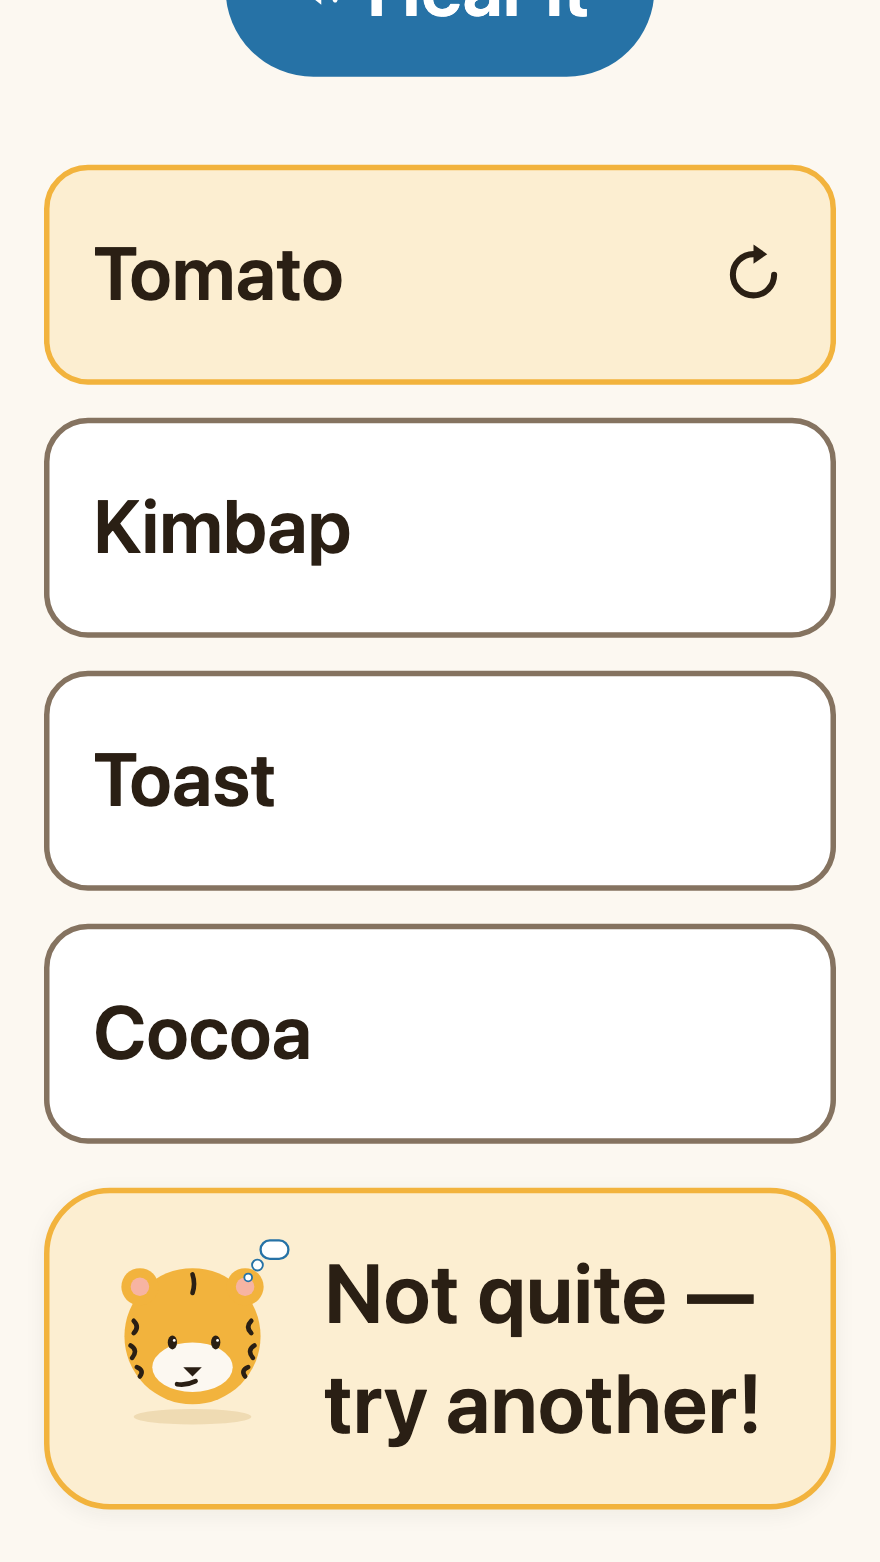
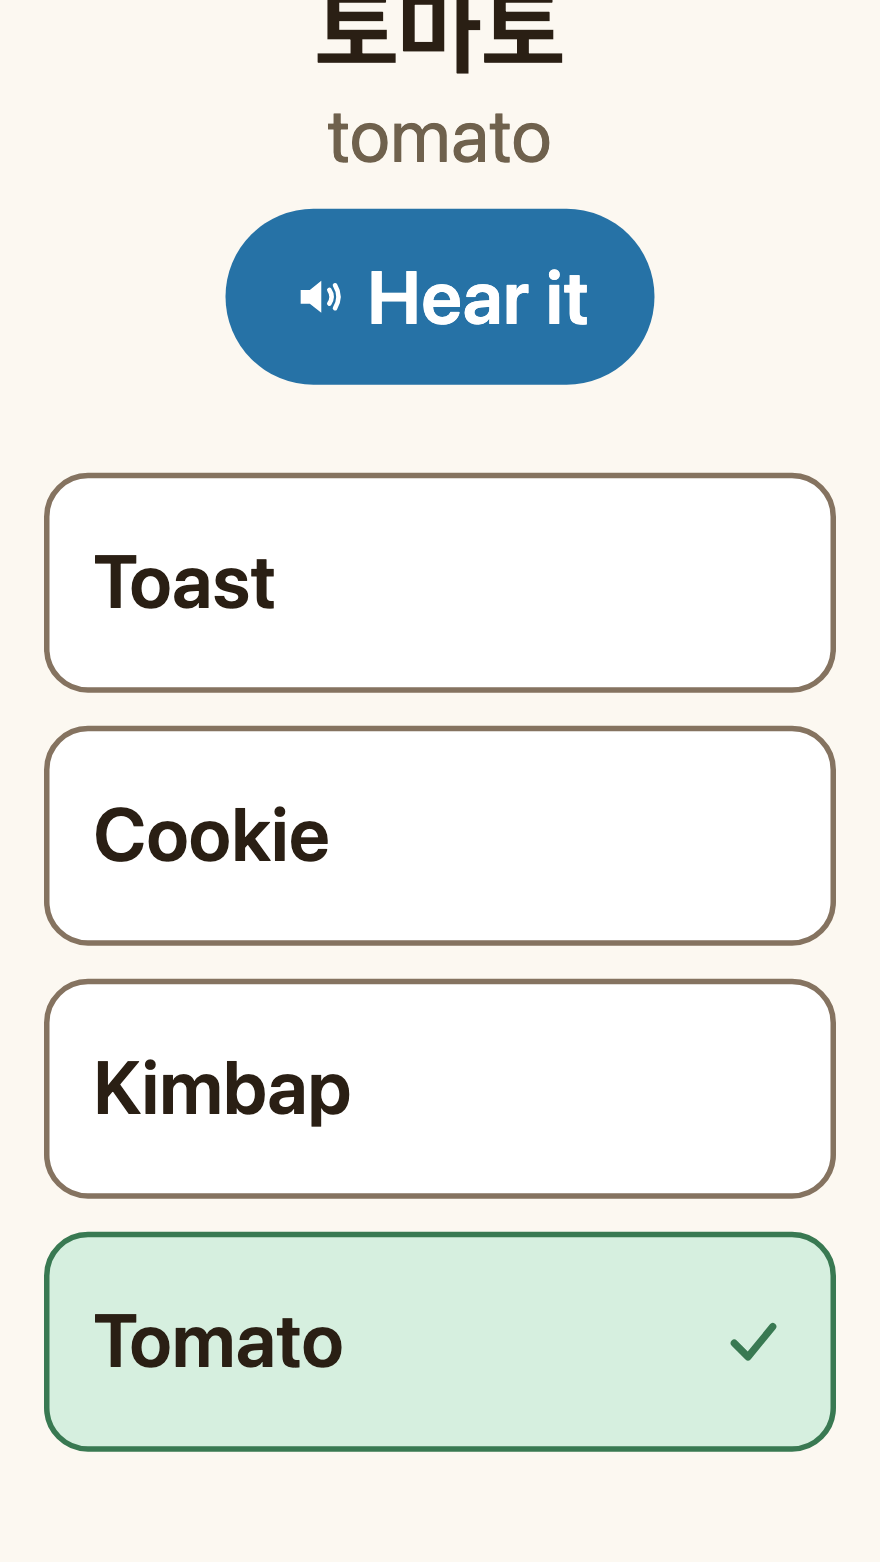
fix(mobile): Culture Quiz and Tap & Respond: Next once, no reply after Next, no advance after leaving; ordered focus test; right shots re-captured (F-A11Y-001 AF-2)
Next is guarded per round (the last round ends the step once); a reply is not started once the turn has moved on; Culture Quiz's reader-off advance has the mounted guard. Tests record focus and announce in one ordered log (iOS reader on: focus, then the line) and fail when each guard is removed. The two Culture Quiz right screenshots now show the green row with the check and no miss bubble. Start bundle re-measured 4,625,094 B raw / 1,273,518 B gzip (line unchanged at 4,628,900 B).

diff --git a/apps/mobile/src/screens/minigames/__tests__/answer-feedback-quiz-tap.test.tsx b/apps/mobile/src/screens/minigames/__tests__/answer-feedback-quiz-tap.test.tsx
@@ -19,16 +19,21 @@ import { TapRespondGame } from '../TapRespondGame';
  */
 (globalThis as { __DEV__?: boolean }).__DEV__ = false;
 
-const sr = vi.hoisted(() => ({ enabled: false, queued: [] as string[], focused: [] as unknown[] }));
+/** `log` is one ordered record of the focus moves and the queued-and-awaited iOS lines. */
+const sr = vi.hoisted(() => ({ enabled: false, queued: [] as string[], focused: [] as unknown[], log: [] as string[] }));
 vi.mock('../../../platform/screen-reader', () => ({
   isScreenReaderEnabled: () => Promise.resolve(sr.enabled),
   subscribeScreenReader: () => () => undefined,
   announceQueued: (text: string) => {
     if ((globalThis as { __os?: string }).__os === 'ios') sr.queued.push(text);
   },
-  announceAndWait: () => Promise.resolve(),
+  announceAndWait: (text: string) => {
+    sr.log.push(`announce: ${text}`);
+    return Promise.resolve();
+  },
   focusForScreenReader: (node: unknown) => {
     sr.focused.push(node);
+    sr.log.push(`focus: ${(node as { testID?: string } | null)?.testID}`);
   },
 }));
 
@@ -120,6 +125,7 @@ beforeEach(() => {
   sr.enabled = false;
   sr.queued.length = 0;
   sr.focused.length = 0;
+  sr.log.length = 0;
   audio.said = [];
   useAudioStore.setState({ muted: false });
   endVoiceCheckHold();
@@ -241,6 +247,40 @@ describe('Culture Quiz answers (test 11)', () => {
     await press(pressable(r, 'culture-quiz-next'));
     expect(finish).toHaveBeenCalledTimes(1);
   });
+
+  it('iOS, reader on: focus moves to Next first, then the line is queued (never the other way round)', async () => {
+    on('ios');
+    sr.enabled = true;
+    const r = await open(<CultureQuizGame scope={QUIZ} onFinish={() => undefined} />);
+    const pair = asked(r);
+    await press(pressable(r, optionId(pair.en)));
+    expect(sr.log).toEqual(['focus: culture-quiz-next', `announce: ${line({ kind: 'right', item: answerItem(m.a11y, pair.romanization, pair.en) })}`]);
+    await tick(60_000);
+    expect(asked(r)).toBe(pair);
+  });
+
+  it('a second Next on the last round ends the step once', async () => {
+    readerOnWeb();
+    const finish = vi.fn();
+    const r = await open(<CultureQuizGame scope={{ ...QUIZ, rounds: 1 } as MinigameScope} onFinish={finish} />);
+    await press(pressable(r, optionId(asked(r).en)));
+    await tick(60_000);
+    // The second tap is a late one on the node as it was drawn (Next is gone by then).
+    const shown = pressable(r, 'culture-quiz-next');
+    const next = { props: shown.props, type: shown.type } as ReactTestInstance;
+    await press(next);
+    await press(next);
+    expect(finish).toHaveBeenCalledTimes(1);
+  });
+
+  it('reader off: leaving the game during the floor ends nothing afterwards', async () => {
+    const finish = vi.fn();
+    const r = await open(<CultureQuizGame scope={{ ...QUIZ, rounds: 1 } as MinigameScope} onFinish={finish} />);
+    await press(pressable(r, optionId(asked(r).en)));
+    await unmount(r);
+    await tick(RESULT_MARK_MIN_MS * 3);
+    expect(finish).not.toHaveBeenCalled();
+  });
 });
 
 describe('Tap & Respond replies (test 12)', () => {
@@ -327,7 +367,7 @@ describe('Tap & Respond replies (test 12)', () => {
     const header = host(r, 'tap-respond-round');
     expect(sr.focused.at(-1)).toEqual(expect.objectContaining({ testID: 'tap-respond-round' }));
     expect(header.props.role).toBe('heading');
-    // The first turn's NPC line has a romanization; the label names it by that, never by its Hangul.
+    // The second turn's NPC line has no romanization, so the label names it by its meaning; never by its Hangul.
     expect(String(header.props['aria-label'])).toBe(m.a11y.answer.round(2, 2, `${m.learner.minigame.tapRespond.someoneSays} What is your name?`));
     expect(String(header.props['aria-label'])).not.toMatch(HANGUL);
   });
@@ -341,6 +381,44 @@ describe('Tap & Respond replies (test 12)', () => {
     await tick(60_000);
     expect(finish).not.toHaveBeenCalled();
     await press(pressable(r, 'tap-respond-next'));
+    expect(finish).toHaveBeenCalledTimes(1);
+  });
+
+  it('iOS, reader on: focus moves to Next first, then the line is queued, then the reply is said', async () => {
+    on('ios');
+    sr.enabled = true;
+    const r = await open(<TapRespondGame scope={TAP} onFinish={() => undefined} />);
+    await settle();
+    audio.said = [];
+    await press(pressable(r, opt('안녕하세요!')));
+    expect(sr.log).toEqual(['focus: tap-respond-next', `announce: ${line({ kind: 'right', item: answerItem(m.a11y, 'annyeonghaseyo', 'Hello!') })}`]);
+    expect(audio.said).toEqual(['안녕하세요!']);
+  });
+
+  it('reader on: a Next pressed before the line has ended starts no reply afterwards', async () => {
+    readerOnWeb();
+    const r = await open(<TapRespondGame scope={TAP} onFinish={() => undefined} />);
+    await settle();
+    audio.said = [];
+    await press(pressable(r, opt('안녕하세요!')));
+    expect(audio.said).toEqual([]);
+    await press(pressable(r, 'tap-respond-next'));
+    await tick(60_000);
+    // The next turn's own line may be said; the old turn's reply never is.
+    expect(audio.said).not.toContain('안녕하세요!');
+  });
+
+  it('a second Next on the last turn ends the step once', async () => {
+    readerOnWeb();
+    const finish = vi.fn();
+    const r = await open(<TapRespondGame scope={{ ...TAP, dialogue: [TAP.dialogue![1]!] }} onFinish={finish} />);
+    await settle();
+    await press(pressable(r, opt('저는 다미예요.')));
+    await tick(60_000);
+    const shown = pressable(r, 'tap-respond-next');
+    const next = { props: shown.props, type: shown.type } as ReactTestInstance;
+    await press(next);
+    await press(next);
     expect(finish).toHaveBeenCalledTimes(1);
   });
 

diff --git a/apps/mobile/src/screens/minigames/CultureQuizGame.tsx b/apps/mobile/src/screens/minigames/CultureQuizGame.tsx
@@ -68,6 +68,15 @@ export function CultureQuizGame({ scope, onFinish }: Props): ReactElement {
   const a = useAnswerAnnouncement();
   const { clear, focusPrompt } = a;
   const next = useRoundNext();
+  const mounted = useRef(false);
+  /** The round last moved on from: a second Next (or a late timer) for the same round does nothing (the last round ends the step once). */
+  const movedFrom = useRef(-1);
+  useEffect(() => {
+    mounted.current = true;
+    return () => {
+      mounted.current = false;
+    };
+  }, []);
   useEffect(() => {
     reset();
   }, [roundIdx, reset]);
@@ -93,6 +102,8 @@ export function CultureQuizGame({ scope, onFinish }: Props): ReactElement {
 
   const last = roundIdx >= rounds.length - 1;
   const advance = (): void => {
+    if (movedFrom.current === roundIdx) return;
+    movedFrom.current = roundIdx;
     next.hide();
     if (last) {
       markStepComplete();
@@ -121,7 +132,10 @@ export function CultureQuizGame({ scope, onFinish }: Props): ReactElement {
         gameMinMs: 700,
         announce: a.readerOn ? () => next.afterFocus(say) : say,
         showNext: next.show,
-        waitThenAdvance: (minMs) => void afterSound(sounding.current, { minMs }).then(advance),
+        waitThenAdvance: (minMs) =>
+          void afterSound(sounding.current, { minMs }).then(() => {
+            if (mounted.current) advance();
+          }),
       });
     } else {
       nudge();

diff --git a/apps/mobile/src/screens/minigames/TapRespondGame.tsx b/apps/mobile/src/screens/minigames/TapRespondGame.tsx
@@ -64,6 +64,8 @@ export function TapRespondGame({ scope, onFinish }: Props): ReactElement {
   const { clear, focusPrompt } = a;
   const next = useRoundNext();
   const mounted = useRef(false);
+  /** The turn last moved on from: a second Next for the same turn does nothing, and a reply is not started after it (reader on). */
+  const movedFrom = useRef(-1);
   // While a right reply is being said, nothing may start the NPC line again (it would cut the reply off).
   const replying = useRef(false);
   useEffect(() => {
@@ -109,6 +111,8 @@ export function TapRespondGame({ scope, onFinish }: Props): ReactElement {
 
   const last = turnIdx >= turns.length - 1;
   const advance = (): void => {
+    if (movedFrom.current === turnIdx) return;
+    movedFrom.current = turnIdx;
     replying.current = false;
     next.hide();
     if (last) {
@@ -144,6 +148,8 @@ export function TapRespondGame({ scope, onFinish }: Props): ReactElement {
         gameMinMs: ADVANCE_MIN_MS,
         announce: a.readerOn ? () => next.afterFocus(say) : say,
         play: () => {
+          // A reader on may press Next before the line ends: the turn has moved on, so its reply is not started.
+          if (movedFrom.current === turnIdx || !mounted.current) return;
           reply = pacing.track(play(() => playPrompt(said), said));
         },
         showNext: next.show,
